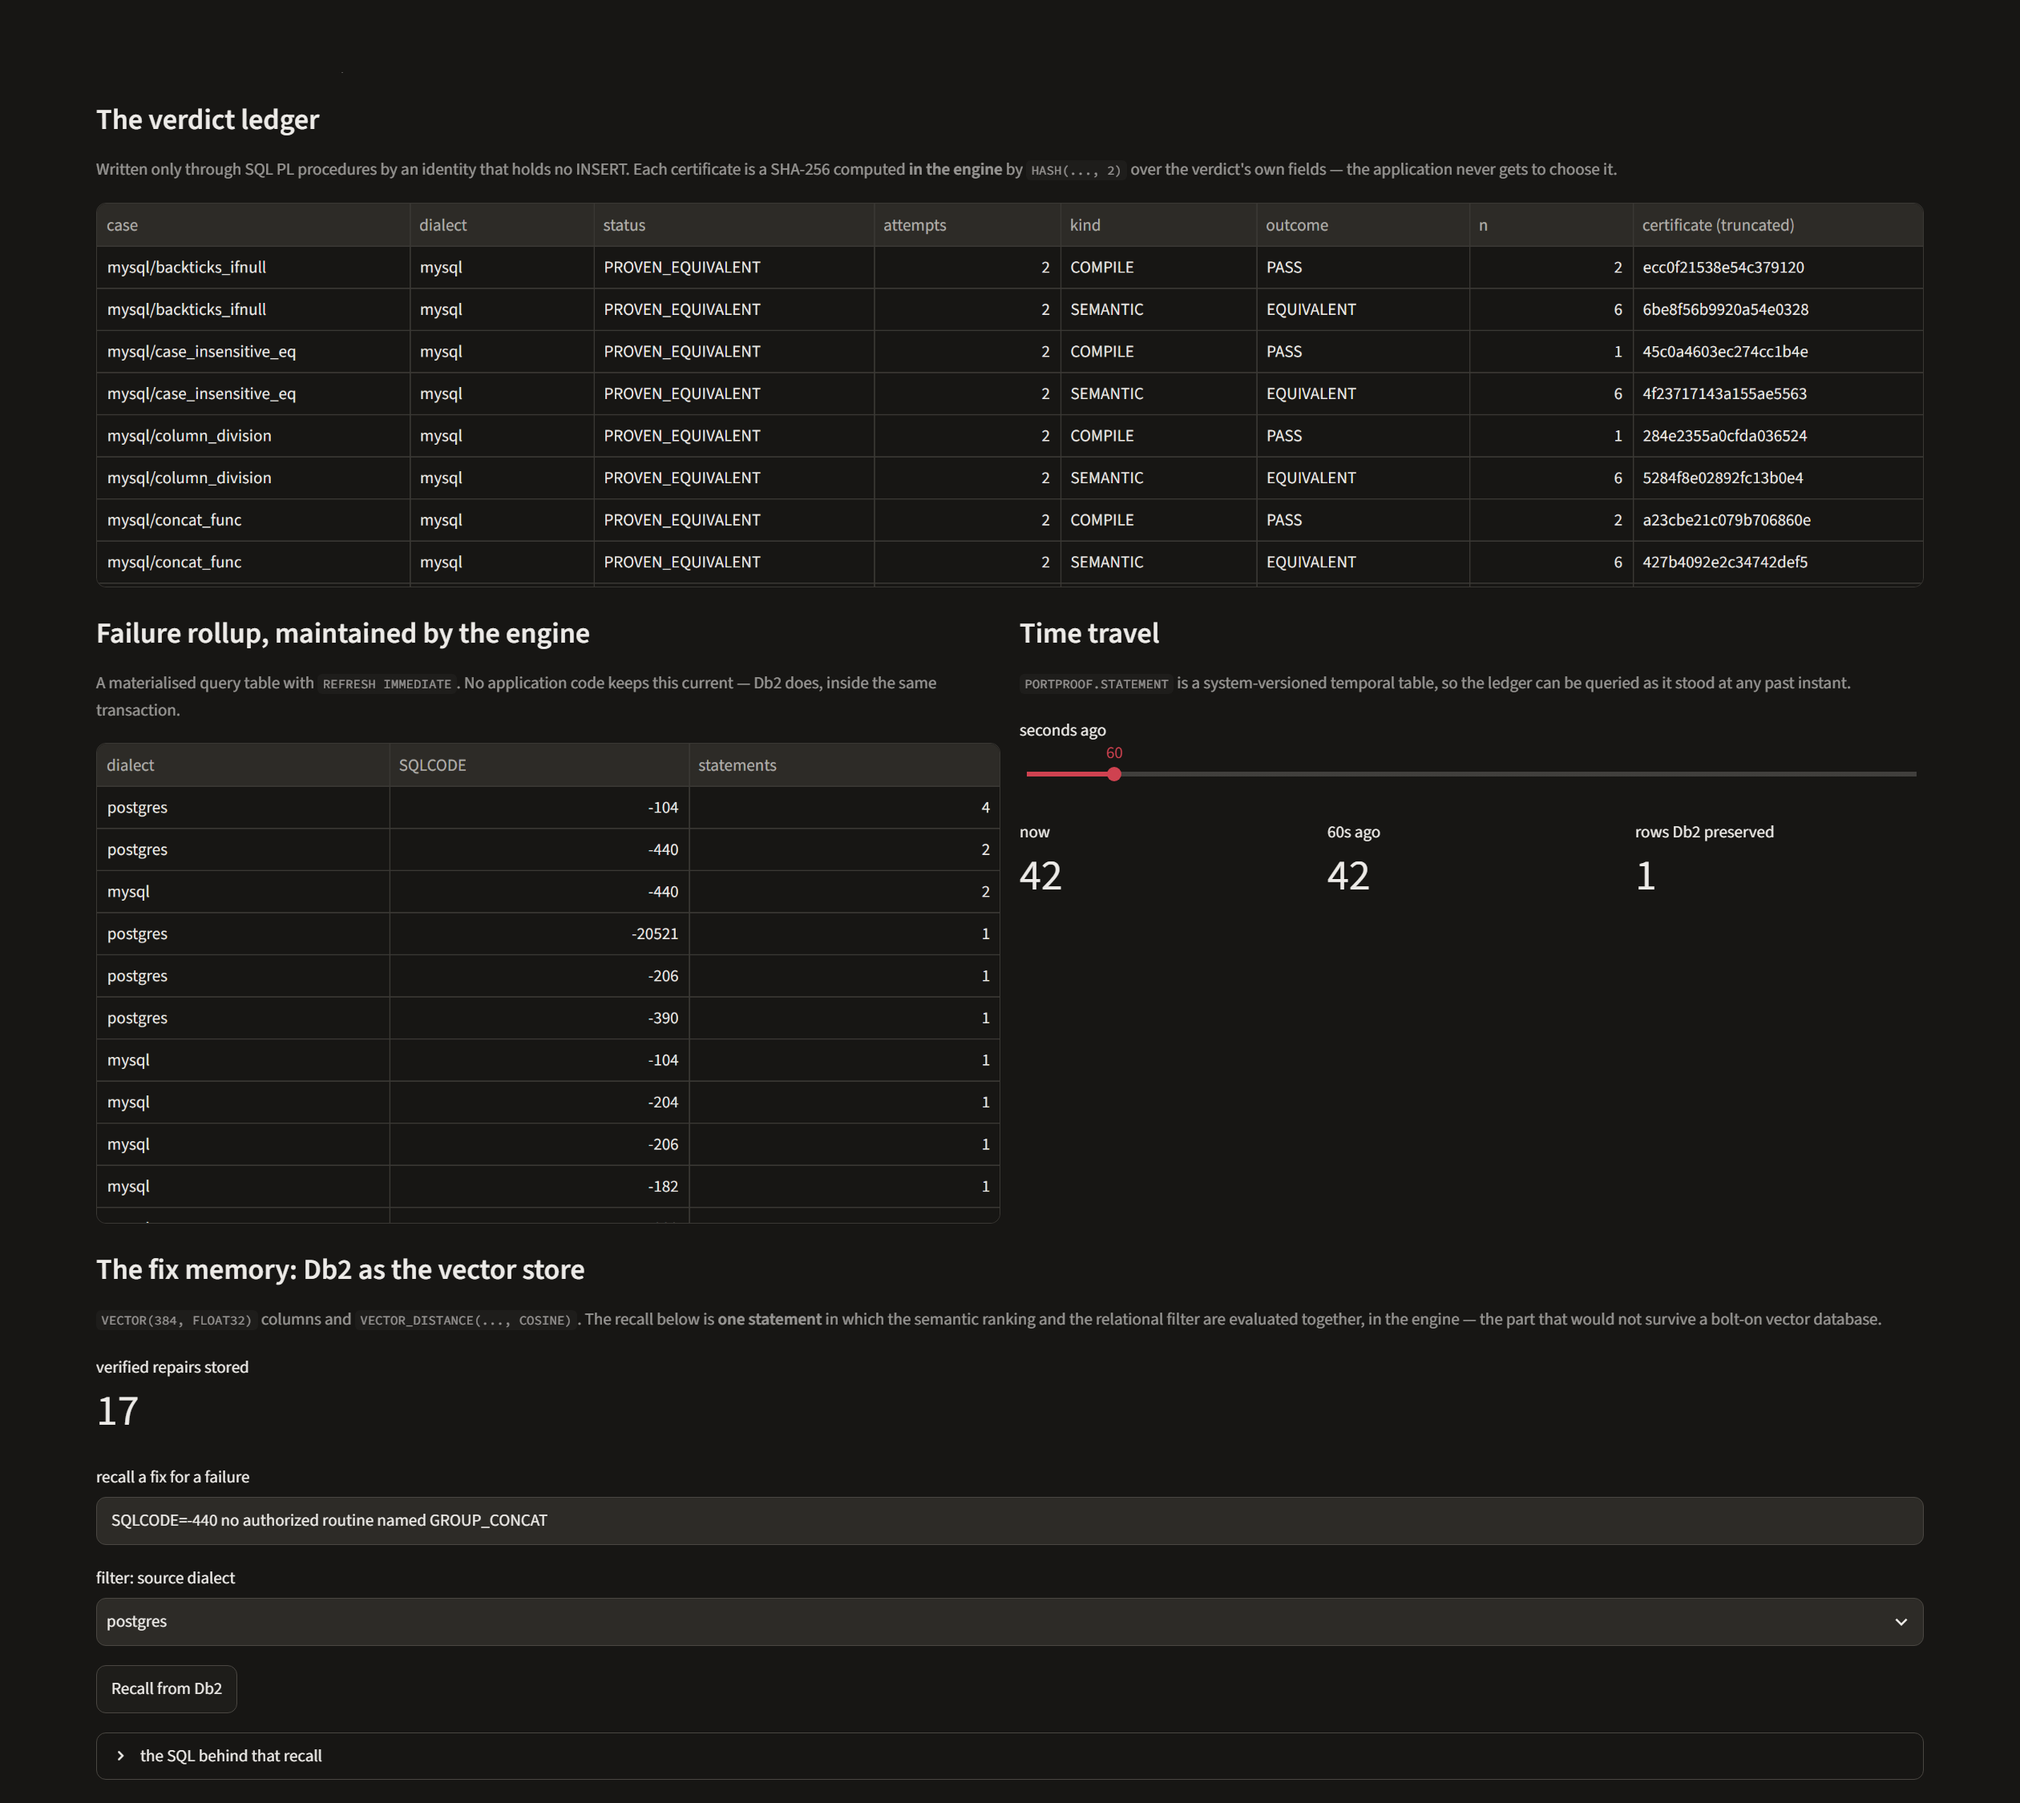
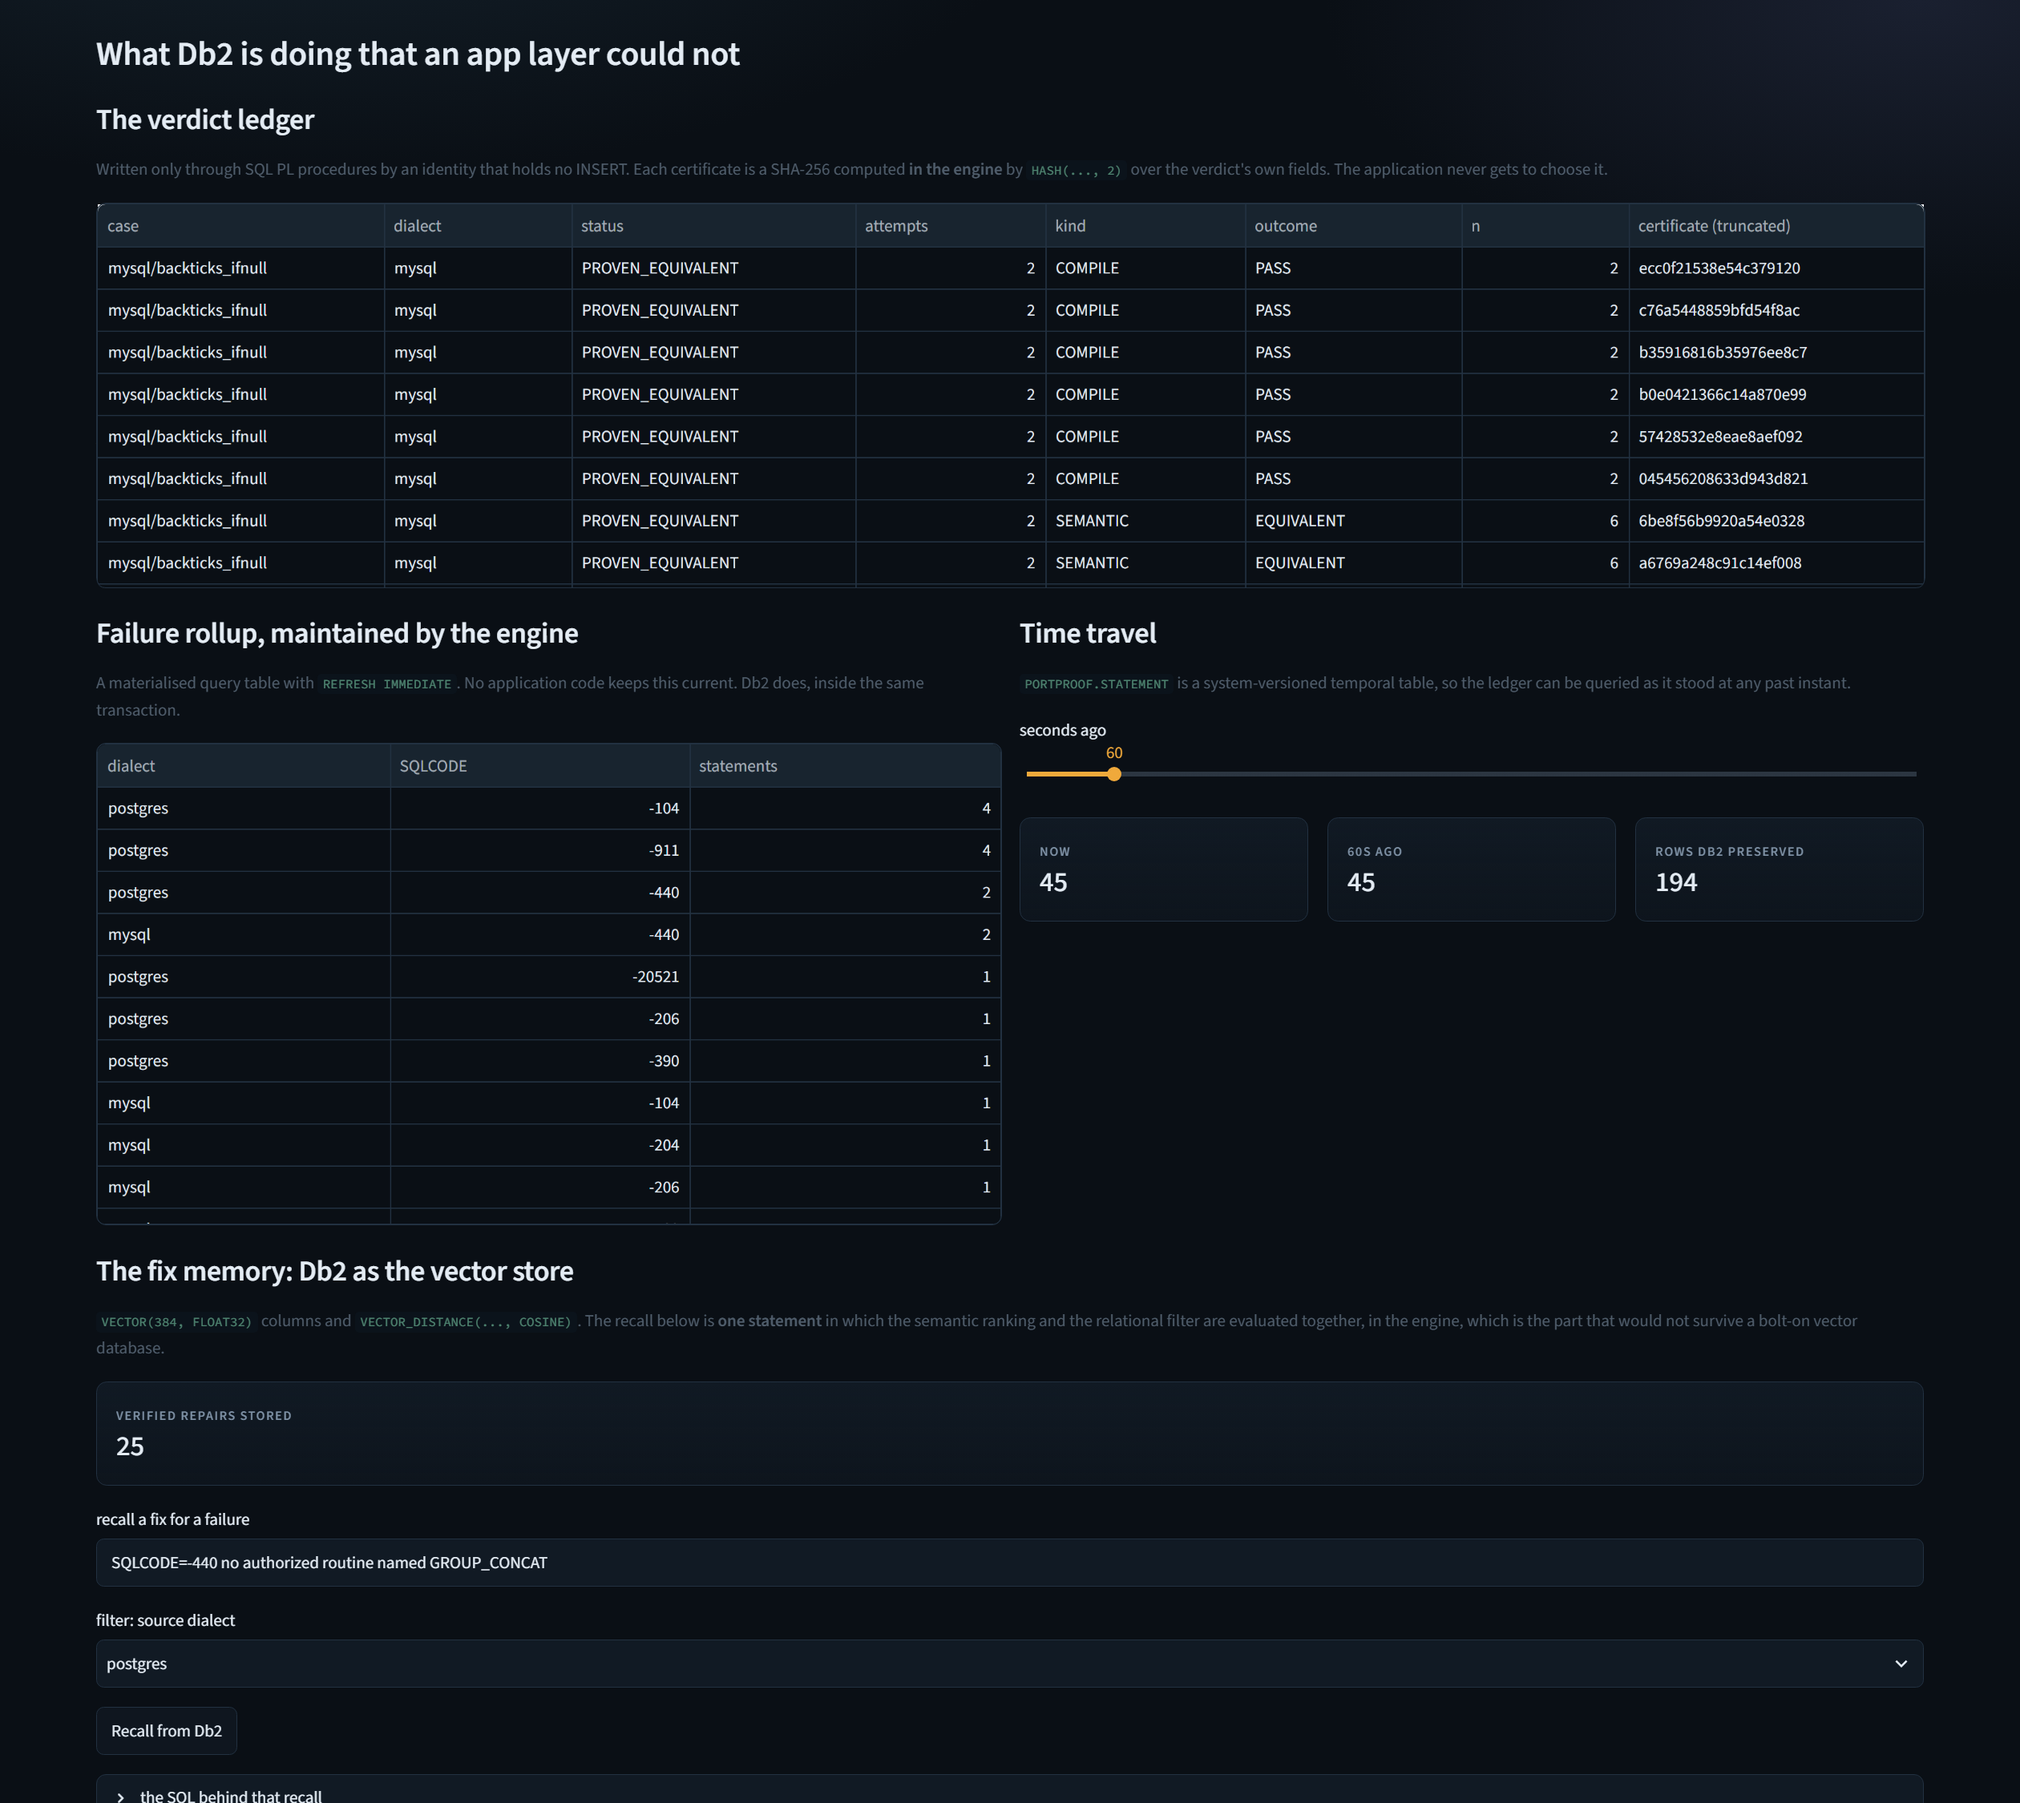
feat(portproof): a dark theme, and two things it exposed
The UI was default Streamlit, which is fine until someone has to stare at two
SQL panels looking for the difference between them. The palette is now
declared once in .streamlit/config.toml, for Streamlit's own widgets, and once
as CSS custom properties in app.py for the parts config cannot reach.

Near-black blue ink at #0A0F15, surfaces at #111A24, and amber #F0A93B as the
single action colour. The amber is not a taste decision: every verdict in this
app is colour coded green, red or orange, so the primary action had to be a
hue no verdict ever is, or a button starts reading as a result. Verdict
colours moved to light tints for the same reason, because the GitHub palette
they started from is built for white and was unreadable here.

Two things surfaced while checking the render against the browser's own
computed styles rather than trusting the CSS:

  * The metric deltas were drawing green upward arrows next to "least
    privilege" and "DDL only", which says those went up. They are captions,
    not movements, so the arrow is gone and the text is neutral.
  * The first tile was shorter than the other three because it had no delta
    line at all.

Also fixed, both visible on screen and therefore in the screenshots:

  * Tab 1 claimed "0 of the 32 corpus statements" and "Db2 then rejects 13".
    It has been 38 and 14 since the real source engines went in, so the page
    contradicted the README and the measured run. The count now reads from
[…]

diff --git a/submissions/portproof/src/app.py b/submissions/portproof/src/app.py
@@ -47,12 +47,26 @@ from src.safety import UnsafeSql, check_read_only  # noqa: E402
 
 st.set_page_config(page_title="PortProof", page_icon="✓", layout="wide")
 
+#: The palette, kept in one place. `.streamlit/config.toml` declares the same
+#: values to Streamlit's own widgets; these are for the parts of the page this
+#: file draws itself. Changing a colour means changing both.
+INK = "#0A0F15"
+SURFACE = "#111A24"
+RAISED = "#18242F"
+BORDER = "#223141"
+TEXT = "#E4ECF4"
+DIM = "#7E91A5"
+AMBER = "#F0A93B"
+
+#: Verdict colours are read as text on a dark background, not as badge fills,
+#: so each one is a light tint rather than the saturated version that works on
+#: white. The GitHub palette this started from was unreadable here.
 VERDICT_COLOUR = {
-    "EQUIVALENT": "#1f883d",
-    "DIFFERENT": "#cf222e",
-    "UNSTABLE": "#bc4c00",
-    "VACUOUS": "#8250df",
-    "INCONCLUSIVE": "#9a6700",
+    "EQUIVALENT": "#3FD894",
+    "DIFFERENT": "#FF6B72",
+    "UNSTABLE": "#FFA857",
+    "VACUOUS": "#B48CFF",
+    "INCONCLUSIVE": "#E9C46A",
 }
 
 #: "DIFFERENT" understates it: the engines were run and disagreed.
@@ -68,11 +82,131 @@ VERDICT_LABEL = {
 #: a verdict without its strength invites exactly the over-reading PortProof is
 #: supposed to prevent.
 STRENGTH_COLOUR = {
-    "STRONG": "#1f883d",
-    "MODERATE": "#9a6700",
-    "WEAK": "#bc4c00",
-    "NONE": "#57606a",
+    "STRONG": "#3FD894",
+    "MODERATE": "#E9C46A",
+    "WEAK": "#FFA857",
+    "NONE": DIM,
 }
+
+#: Injected once, after set_page_config. config.toml colours Streamlit's own
+#: widgets; this covers what it cannot reach, which is mostly the tab strip,
+#: the metric tiles and the two SQL panels that carry the whole argument of
+#: tab 1. Selectors are kept to Streamlit's stable `data-testid` attributes
+#: rather than its generated class names, which change between releases.
+THEME_CSS = f"""
+<style>
+:root {{
+  --pp-ink: {INK};
+  --pp-surface: {SURFACE};
+  --pp-raised: {RAISED};
+  --pp-border: {BORDER};
+  --pp-text: {TEXT};
+  --pp-dim: {DIM};
+  --pp-amber: {AMBER};
+}}
+
+.stApp {{
+  background:
+    radial-gradient(1100px 500px at 15% -10%, #16242F 0%, rgba(22,36,47,0) 60%),
+    radial-gradient(900px 450px at 95% 0%, #1A2030 0%, rgba(26,32,48,0) 55%),
+    var(--pp-ink);
+}}
+
+/* The title, set as a thin wordmark with a rule under it. */
+h1 {{
+  font-weight: 300 !important;
+  letter-spacing: -0.02em;
+  font-size: 2.9rem !important;
+  background: linear-gradient(96deg, var(--pp-text) 15%, var(--pp-amber) 112%);
+  -webkit-background-clip: text;
+  background-clip: text;
+  -webkit-text-fill-color: transparent;
+  padding-bottom: .1em;
+}}
+h3, h4 {{ letter-spacing: -0.01em; }}
+
+/* Metric tiles: cards rather than floating numbers. */
+div[data-testid="stMetric"] {{
+  background: linear-gradient(180deg, var(--pp-surface) 0%, rgba(17,26,36,.55) 100%);
+  border: 1px solid var(--pp-border);
+  border-radius: .55rem;
+  padding: .85rem 1rem;
+}}
+div[data-testid="stMetric"] label p {{
+  color: var(--pp-dim) !important;
+  text-transform: uppercase;
+  letter-spacing: .09em;
+  font-size: .68rem !important;
+  font-weight: 600;
+}}
+div[data-testid="stMetricValue"] {{
+  font-size: 1.45rem !important;
+  font-weight: 500;
+}}
+/* The delta line here is a caption, not a movement, so the arrow glyph goes.
+   delta_color="off" greys it but Streamlit still draws the triangle. */
+div[data-testid="stMetricDelta"] svg {{ display: none; }}
+div[data-testid="stMetricDelta"] {{
+  font-size: .78rem;
+  color: var(--pp-dim) !important;
+}}
+
+/* Tabs: an amber underline on the active one, nothing else. */
+div[data-testid="stTabs"] button[role="tab"] {{
+  color: var(--pp-dim);
+  font-weight: 500;
+  letter-spacing: .01em;
+}}
+div[data-testid="stTabs"] button[role="tab"][aria-selected="true"] {{
+  color: var(--pp-text);
+  background: var(--pp-raised);
+  border-radius: .4rem .4rem 0 0;
+}}
+
+/* SQL panels. Tab 1 is an argument made by two code blocks side by side, so
+   they get a left rule to separate them from the prose around them. */
+div[data-testid="stCode"], pre {{
+  border: 1px solid var(--pp-border) !important;
+  border-left: 3px solid var(--pp-amber) !important;
+  border-radius: .45rem !important;
+}}
+code {{ font-size: .86em; }}
+
+/* Alerts, toned down. Streamlit's defaults are loud enough to out-shout the
+   verdict they are sitting next to. */
+div[data-testid="stAlert"] {{
+  border: 1px solid var(--pp-border);
+  border-left-width: 3px;
+  background: var(--pp-surface);
+  border-radius: .45rem;
+}}
+
+div[data-testid="stExpander"] details {{
+  background: var(--pp-surface);
+  border: 1px solid var(--pp-border);
+  border-radius: .5rem;
+}}
+
+div[data-testid="stDataFrame"] {{
+  border: 1px solid var(--pp-border);
+  border-radius: .5rem;
+}}
+
+/* The primary action reads as the one thing to press on each tab. */
+button[kind="primary"] {{
+  background: linear-gradient(180deg, #F7BC5C 0%, var(--pp-amber) 100%);
+  color: #10161E !important;
+  font-weight: 650;
+  border: 0;
+}}
+button[kind="primary"]:hover {{ filter: brightness(1.08); }}
+
+div[data-testid="stCaptionContainer"] p {{ color: var(--pp-dim) !important; }}
+hr {{ border-color: var(--pp-border); }}
+
+footer, #MainMenu {{ visibility: hidden; }}
+</style>
+"""
 
 
 # --------------------------------------------------------------------------
@@ -130,19 +264,35 @@ except Exception as exc:  # pragma: no cover - UI path
     st.stop()
 
 cfg = llm_config()
+st.markdown(THEME_CSS, unsafe_allow_html=True)
 st.title("PortProof")
 st.markdown(
     "**AI proposes, Db2 proves.** A migration is only done when the engine says so."
 )
 
 c1, c2, c3, c4 = st.columns(4)
-c1.metric("Db2", db.server_version(owner_conn))
-c2.metric("runtime identity", db.current_identity(app_conn)[0], "least privilege")
-c3.metric("owner identity", db.current_identity(owner_conn)[0], "DDL only")
+# delta_color="off" throughout: these are captions, not movements. Streamlit's
+# default renders a delta as a green upward arrow, which reads as "this went
+# up" and is nonsense next to "least privilege".
+c1.metric("Db2", db.server_version(owner_conn), "Community Edition", delta_color="off")
+c2.metric(
+    "runtime identity",
+    db.current_identity(app_conn)[0],
+    "least privilege",
+    delta_color="off",
+)
+c3.metric(
+    "owner identity", db.current_identity(owner_conn)[0], "DDL only", delta_color="off"
+)
 c4.metric(
-    "repair model",
-    cfg.provider,
-    "deterministic rules, no key" if cfg.is_mock else cfg.model,
+    "repair engine",
+    # Not "mock". The provider is named `mock` in the configuration because it
+    # substitutes for a model, but what it actually runs is a deterministic
+    # rewrite rule set, and calling that a mock on screen understates it: these
+    # are the rules that repaired all fourteen rejected statements.
+    "rules" if cfg.is_mock else cfg.provider,
+    "deterministic, no API key" if cfg.is_mock else cfg.model,
+    delta_color="off",
 )
 
 tab_prove, tab_semantic, tab_ledger = st.tabs(
@@ -283,8 +433,8 @@ with tab_prove:
                 if outcome.repaired:
                     repairs = max(outcome.attempt_count - 1, 1)
                     st.success(
-                        f"Repaired in {repairs} repair attempt(s), {elapsed:.1f}s "
-                        "-- and **Db2 re-verified it**, which is the only reason "
+                        f"Repaired in {repairs} repair attempt(s), {elapsed:.1f}s, "
+                        "and **Db2 re-verified it**, which is the only reason "
                         "this says 'repaired'."
                     )
                     st.session_state["proved_sql"] = outcome.final_sql
@@ -365,15 +515,15 @@ with tab_semantic:
                     dialect=statement.dialect,
                 )
 
-            colour = VERDICT_COLOUR.get(verdict.outcome, "#57606a")
-            strength_colour = STRENGTH_COLOUR.get(verdict.strength, "#57606a")
+            colour = VERDICT_COLOUR.get(verdict.outcome, DIM)
+            strength_colour = STRENGTH_COLOUR.get(verdict.strength, DIM)
             st.markdown(
                 f"<h3 style='color:{colour};margin-bottom:0'>"
                 f"{VERDICT_LABEL.get(verdict.outcome, verdict.outcome)}"
                 f"<span style='color:{strength_colour};font-size:0.6em;"
                 f"font-weight:600;margin-left:.6em'>evidence "
                 f"{verdict.strength}</span></h3>"
-                f"<p style='color:#57606a'>{html.escape(verdict.headline)}</p>",
+                f"<p style='color:{DIM}'>{html.escape(verdict.headline)}</p>",
                 unsafe_allow_html=True,
             )
             for note in verdict.notes:

diff --git a/submissions/portproof/tests/test_ui.py b/submissions/portproof/tests/test_ui.py
@@ -33,7 +33,7 @@ def test_the_page_loads_without_raising():
     assert any("PortProof" in t.value for t in app.title)
     # The header metrics prove the page really talked to Db2 on load.
     labels = {m.label for m in app.metric}
-    assert {"Db2", "runtime identity", "owner identity", "repair model"} <= labels
+    assert {"Db2", "runtime identity", "owner identity", "repair engine"} <= labels
 
 
 def test_header_shows_the_least_privilege_identity_not_the_owner():

diff --git a/submissions/portproof/README.md b/submissions/portproof/README.md
@@ -216,7 +216,7 @@ A rewrite is also accepted when what remains is not a difference anybody can fix
 - **Translation:** `sqlglot` 30.30.0 with IBM's `db2-sqlglot-dialect` 1.1.0
 - **Embeddings:** `sentence-transformers` 6.2.0, `all-MiniLM-L6-v2`
 - **Source engines:** PostgreSQL 17 and MySQL 8.4 in Docker, with DuckDB 2.0.0 embedded as a declared stand in. Db2 also reads both of them directly through federation, using its own bundled JDBC driver for PostgreSQL and Oracle's Connector/J 8.4.0 for MySQL
-- **UI:** Streamlit 1.67.0
+- **UI:** Streamlit 1.67.0, themed dark through `.streamlit/config.toml`
 - **Testing:** pytest 9.2.0
 
 Every version in `requirements.txt` is pinned to what the project was built and measured against.
@@ -354,7 +354,7 @@ The regressions pinned by name, because each one would have invalidated the resu
 
 ## Screenshots and Demo
 
-All seven are in `docs/screenshots/`, captured from the running Streamlit app.
+All seven are in `docs/screenshots/`, captured from the running app against a live Db2. Nothing in them is mocked up: every SQLCODE, every verdict and every number was produced by the engine at the moment the shot was taken.
 
 ### 1. A silent failure, caught by the engine
 
